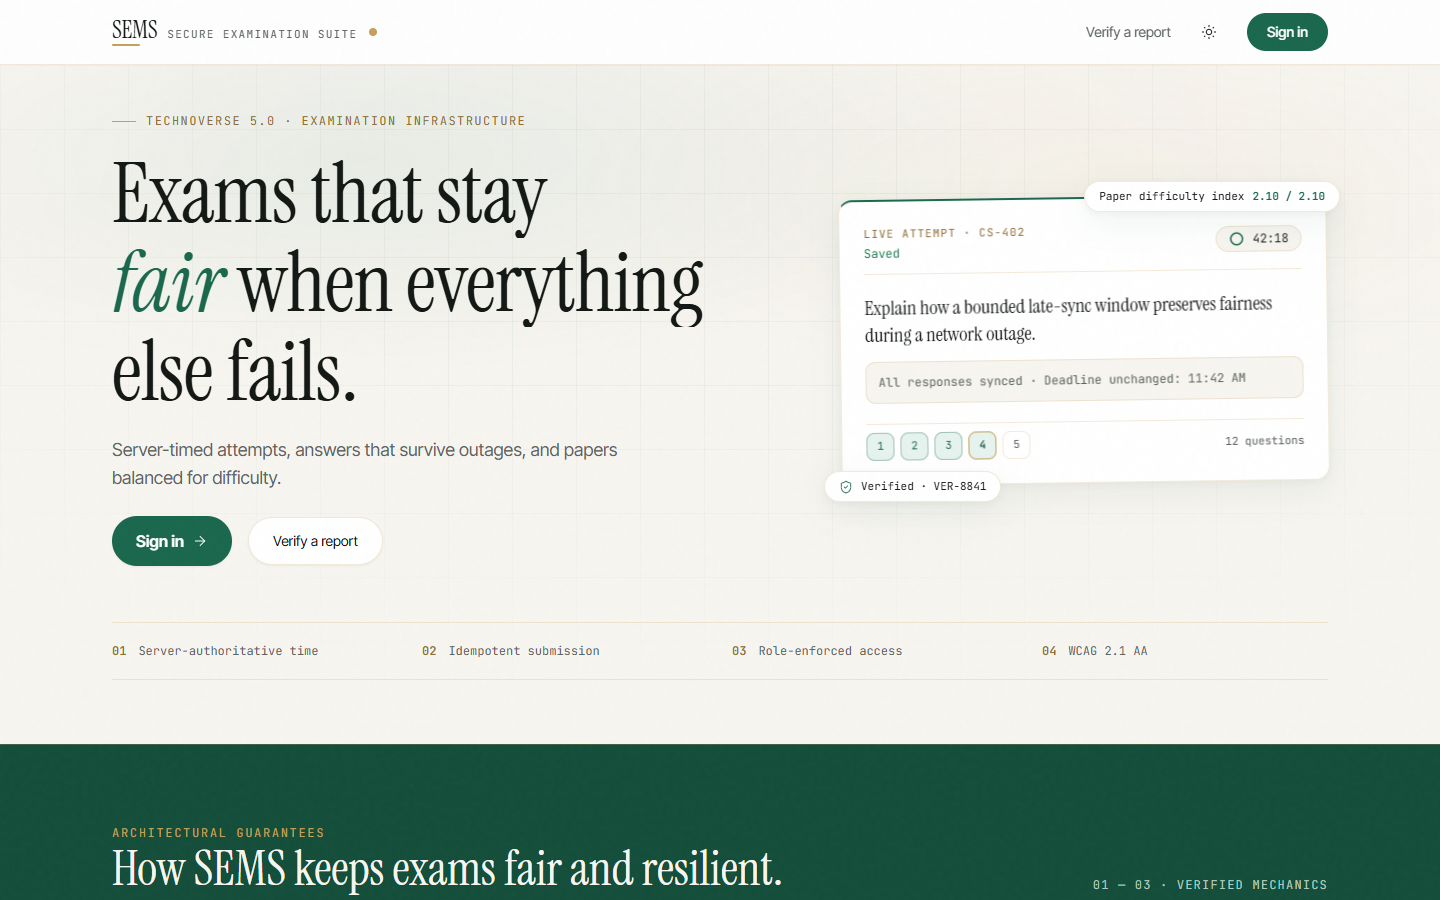
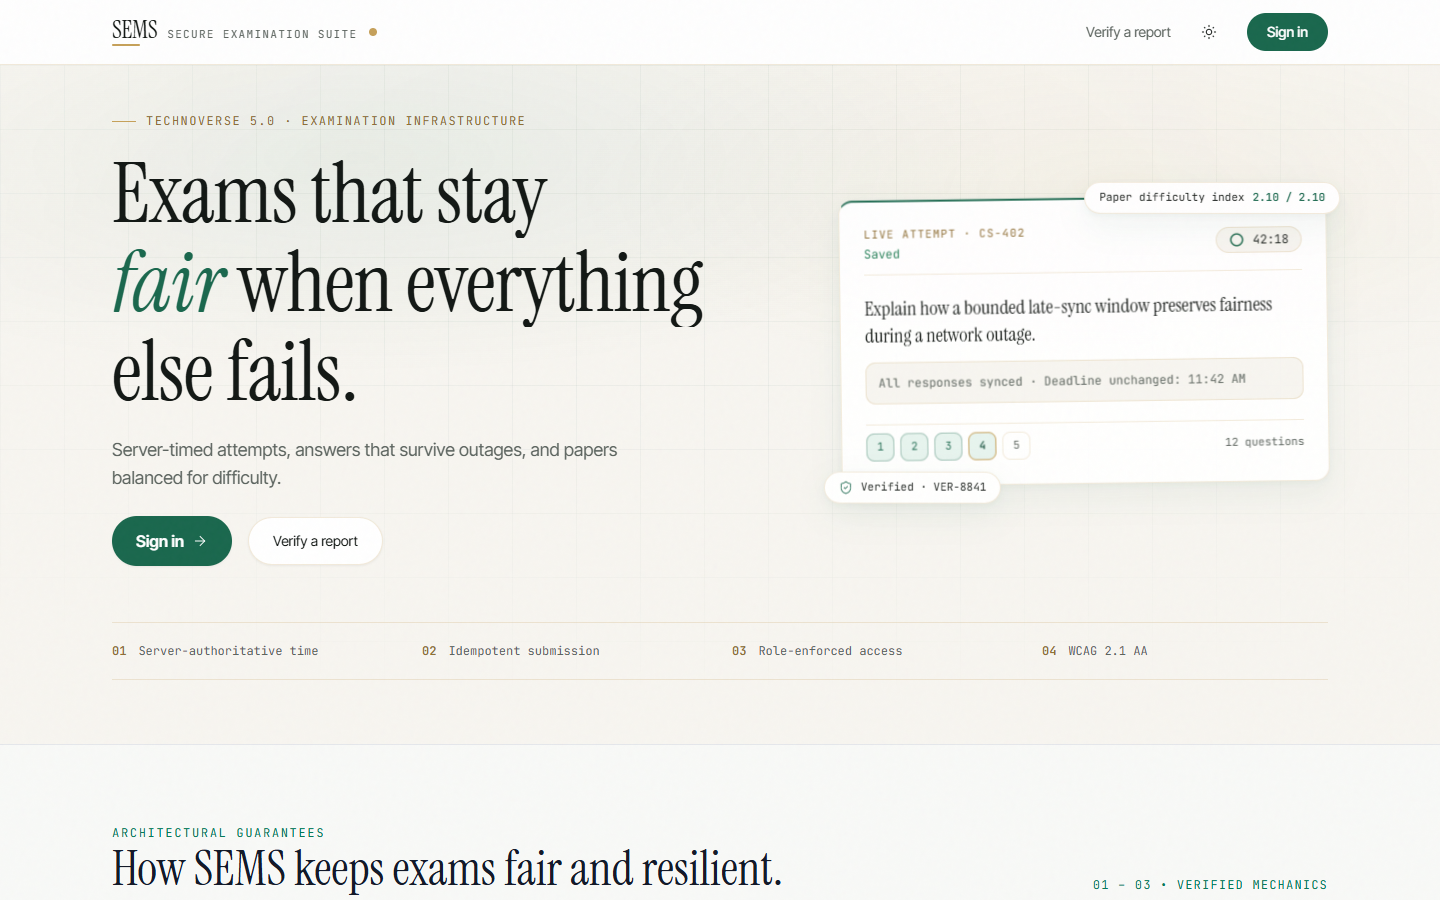
style(frontend): redesign landing feature showcase to crisp off-white architectural light theme

diff --git a/frontend/src/pages/HomePage.jsx b/frontend/src/pages/HomePage.jsx
@@ -338,78 +338,70 @@ export const HomePage = () => {
           </section>
         </section>
 
-        {/* Full-Bleed Heritage Emerald Band: 3-Chapter Feature Showcase */}
+        {/* Architectural Off-White Band: 3-Chapter Feature Showcase */}
         <section
           aria-labelledby="story-heading"
-          className="bg-[#134E3A] text-[#F7F5F0] py-16 sm:py-20 border-y border-[#C5A059]/25"
+          className="bg-[#F8F9F7] text-[#111827] py-16 sm:py-20 border-y border-[#E5E7EB]"
         >
           <div className="max-w-7xl mx-auto px-4 sm:px-6 lg:px-8 space-y-14">
-            <div className="flex flex-col sm:flex-row sm:items-end justify-between gap-4 border-b border-[#F7F5F0]/15 pb-6">
+            <div className="flex flex-col sm:flex-row sm:items-end justify-between gap-4 border-b border-[#E5E7EB] pb-6">
               <div>
-                <p className="font-mono text-xs uppercase tracking-[0.14em] text-[#C5A059]">
+                <p className="font-mono text-xs uppercase tracking-[0.14em] text-[#047857]">
                   Architectural Guarantees
                 </p>
-                <h2 id="story-heading" className="font-serif text-3xl sm:text-5xl text-[#F7F5F0] mt-1">
+                <h2 id="story-heading" className="font-serif text-3xl sm:text-5xl text-[#111827] mt-1">
                   How SEMS keeps exams fair and resilient.
                 </h2>
               </div>
-              <span className="text-xs font-mono text-[#B2C9BF] uppercase tracking-[0.1em]">
-                01 — 03 · Verified Mechanics
+              <span className="text-xs font-mono text-[#047857] uppercase tracking-[0.1em]">
+                01 – 03 • Verified Mechanics
               </span>
             </div>
 
             {/* Chapter 01: Server keeps the clock */}
-            <article className="scroll-chapter grid grid-cols-1 lg:grid-cols-12 gap-8 items-center pb-12 border-b border-[#C5A059]/25">
+            <article className="scroll-chapter grid grid-cols-1 lg:grid-cols-12 gap-8 items-center pb-12 border-b border-[#E5E7EB]">
               <div className="lg:col-span-5 space-y-3">
-                <span className="font-serif text-5xl text-[#C5A059] block">01</span>
-                <h3 className="font-serif text-3xl sm:text-4xl text-[#F7F5F0]">The server keeps the clock.</h3>
-                <p className="text-sm sm:text-base text-[#D7E6DF] max-w-[54ch] leading-relaxed">
+                <span className="font-serif text-5xl text-[#047857] block">01</span>
+                <h3 className="font-serif text-3xl sm:text-4xl text-[#111827]">The server keeps the clock.</h3>
+                <p className="text-sm sm:text-base text-[#4B5563] max-w-[54ch] leading-relaxed">
                   Every countdown is anchored to the server&apos;s UTC deadline via minimum-RTT offset sampling. Changing the local device clock never adds a single second.
                 </p>
               </div>
-              <div
-                className="lg:col-span-7 min-h-[240px] rounded-[16px] p-5 sm:p-6 flex flex-col justify-between gap-5"
-                style={{
-                  backgroundColor: 'rgba(255, 255, 255, 0.08)',
-                  border: '1px solid rgba(197, 160, 89, 0.28)',
-                  backgroundImage: 'radial-gradient(rgba(247, 245, 240, 0.14) 1px, transparent 1px)',
-                  backgroundSize: '18px 18px',
-                }}
-              >
-                <div className="flex items-center justify-between text-[11px] font-mono uppercase tracking-[0.1em] text-[#B2C9BF]">
+              <div className="lg:col-span-7 min-h-[240px] rounded-[16px] bg-white border border-[#E5E7EB] shadow-[0_1px_3px_rgba(17,24,39,0.04),0_10px_28px_rgba(17,24,39,0.04)] p-5 sm:p-6 flex flex-col justify-between gap-5">
+                <div className="flex flex-wrap items-center justify-between gap-2 text-[11px] font-mono uppercase tracking-[0.1em] text-[#4B5563]">
                   <span className="inline-flex items-center gap-1.5">
-                    <Clock className="w-3.5 h-3.5 text-[#C5A059]" /> Clock Authority Comparison
+                    <Clock className="w-3.5 h-3.5 text-[#047857]" /> Clock Authority Comparison
                   </span>
-                  <span className="px-2.5 py-0.5 rounded-full bg-[#19674D] border border-[#C5A059]/40 text-[#F7F5F0]">
-                    RTT Offset: 14ms · Locked
+                  <span className="px-2.5 py-0.5 rounded-full bg-[#ECFDF5] border border-[#A7F3D0] text-[#065F46]">
+                    RTT Offset: 14ms • Locked
                   </span>
                 </div>
 
                 <div className="grid grid-cols-1 sm:grid-cols-2 gap-4">
-                  {/* Dimmed Tampered Device Clock */}
-                  <div className="rounded-[12px] p-4 bg-black/20 border border-white/10 opacity-65">
-                    <div className="text-[11px] font-mono uppercase text-[#B2C9BF] mb-1">Local Device Clock</div>
-                    <div className="font-mono text-xl text-red-300 line-through tabular-nums">12:12:00 (+30m Tampered)</div>
-                    <div className="text-[11px] font-mono text-red-200/80 mt-2">Ignored by submission gate</div>
+                  {/* Neutral Tampered Device Clock */}
+                  <div className="rounded-[12px] p-4 bg-[#F9FAFB] border border-[#E5E7EB]">
+                    <div className="text-[11px] font-mono uppercase text-[#4B5563] mb-1">Local Device Clock</div>
+                    <div className="font-mono text-xl text-[#DC2626] line-through tabular-nums">12:12:00 (+30m Tampered)</div>
+                    <div className="text-[11px] font-mono text-[#6B7280] mt-2">Ignored by submission gate</div>
                   </div>
 
-                  {/* Luminous Authoritative UTC Server Clock */}
-                  <div className="rounded-[12px] p-4 bg-[#0F2E23]/90 border border-[#C5A059]/60 shadow-lg flex items-center justify-between gap-3">
+                  {/* High-Contrast Authoritative UTC Server Clock */}
+                  <div className="rounded-[12px] p-4 bg-[#064E3B] border border-[#064E3B] shadow-sm flex items-center justify-between gap-3">
                     <div>
-                      <div className="inline-flex items-center gap-1 text-[11px] font-mono uppercase text-[#C5A059] mb-1">
+                      <div className="inline-flex items-center gap-1 text-[11px] font-mono uppercase text-[#A7F3D0] mb-1">
                         <Lock className="w-3 h-3" /> Authoritative UTC Server Clock
                       </div>
-                      <div className="font-mono text-2xl text-[#F7F5F0] font-semibold tabular-nums">42:18</div>
-                      <div className="text-[11px] font-mono text-[#B2C9BF] mt-1">Deadline: 11:42:00 UTC</div>
+                      <div className="font-mono text-2xl text-white font-semibold tabular-nums">42:18</div>
+                      <div className="text-[11px] font-mono text-[#D1FAE5] mt-1">Deadline: 11:42:00 UTC</div>
                     </div>
                     <svg width="56" height="56" viewBox="0 0 56 56" aria-hidden="true" className="shrink-0">
-                      <circle cx="28" cy="28" r="22" fill="none" stroke="rgba(247,245,240,0.18)" strokeWidth="4" />
+                      <circle cx="28" cy="28" r="22" fill="none" stroke="rgba(255,255,255,0.18)" strokeWidth="4" />
                       <circle
                         cx="28"
                         cy="28"
                         r="22"
                         fill="none"
-                        stroke="#C5A059"
+                        stroke="#34D399"
                         strokeWidth="4"
                         strokeLinecap="round"
                         strokeDasharray="138.2"
@@ -424,41 +416,33 @@ export const HomePage = () => {
             </article>
 
             {/* Chapter 02: Answers survive outages */}
-            <article className="scroll-chapter grid grid-cols-1 lg:grid-cols-12 gap-8 items-center pb-12 border-b border-[#C5A059]/25">
+            <article className="scroll-chapter grid grid-cols-1 lg:grid-cols-12 gap-8 items-center pb-12 border-b border-[#E5E7EB]">
               <div className="lg:col-span-5 space-y-3">
-                <span className="font-serif text-5xl text-[#C5A059] block">02</span>
-                <h3 className="font-serif text-3xl sm:text-4xl text-[#F7F5F0]">Answers survive outages.</h3>
-                <p className="text-sm sm:text-base text-[#D7E6DF] max-w-[54ch] leading-relaxed">
+                <span className="font-serif text-5xl text-[#047857] block">02</span>
+                <h3 className="font-serif text-3xl sm:text-4xl text-[#111827]">Answers survive outages.</h3>
+                <p className="text-sm sm:text-base text-[#4B5563] max-w-[54ch] leading-relaxed">
                   Responses write to IndexedDB first with monotonic sequence numbers. On reconnect, queued answers flush in order within a bounded late-sync window.
                 </p>
               </div>
-              <div
-                className="lg:col-span-7 min-h-[240px] rounded-[16px] p-5 sm:p-6 flex flex-col justify-between gap-5"
-                style={{
-                  backgroundColor: 'rgba(255, 255, 255, 0.08)',
-                  border: '1px solid rgba(197, 160, 89, 0.28)',
-                  backgroundImage: 'radial-gradient(rgba(247, 245, 240, 0.14) 1px, transparent 1px)',
-                  backgroundSize: '18px 18px',
-                }}
-              >
-                <div className="flex items-center justify-between text-[11px] font-mono uppercase tracking-[0.1em] text-[#B2C9BF]">
+              <div className="lg:col-span-7 min-h-[240px] rounded-[16px] bg-white border border-[#E5E7EB] shadow-[0_1px_3px_rgba(17,24,39,0.04),0_10px_28px_rgba(17,24,39,0.04)] p-5 sm:p-6 flex flex-col justify-between gap-5">
+                <div className="flex flex-wrap items-center justify-between gap-2 text-[11px] font-mono uppercase tracking-[0.1em] text-[#4B5563]">
                   <span className="inline-flex items-center gap-1.5">
-                    <Database className="w-3.5 h-3.5 text-[#C5A059]" /> Offline-First Sync Pipeline
+                    <Database className="w-3.5 h-3.5 text-[#047857]" /> Offline-First Sync Pipeline
                   </span>
-                  <span className="px-2.5 py-0.5 rounded-full bg-white/10 border border-white/15 text-[#F7F5F0]">
-                    Monotonic Seq · Idempotent
+                  <span className="px-2.5 py-0.5 rounded-full bg-[#ECFDF5] border border-[#A7F3D0] text-[#065F46]">
+                    Monotonic Seq • Idempotent
                   </span>
                 </div>
 
                 <div className="grid grid-cols-1 sm:grid-cols-3 gap-3 items-center">
                   {/* Step 1: IndexedDB Local Vault */}
-                  <div className="rounded-[12px] p-3.5 bg-[#0F2E23]/85 border border-white/15 space-y-2">
-                    <div className="text-[11px] font-mono uppercase text-[#C5A059]">IndexedDB Local Vault</div>
+                  <div className="rounded-[12px] p-3.5 bg-[#F9FAFB] border border-[#E5E7EB] space-y-2">
+                    <div className="text-[11px] font-mono uppercase text-[#4B5563]">IndexedDB Local Vault</div>
                     <div className="flex flex-wrap gap-1.5">
                       {['Q3 · #14', 'Q4 · #15', 'Q5 · #16'].map((chip) => (
                         <span
                           key={chip}
-                          className="px-2 py-1 rounded-md bg-white/10 border border-[#C5A059]/35 font-mono text-[11px] text-[#F7F5F0]"
+                          className="px-2 py-1 rounded-md bg-white border border-[#E5E7EB] font-mono text-[11px] text-[#111827]"
                         >
                           {chip}
                         </span>
@@ -466,27 +450,27 @@ export const HomePage = () => {
                     </div>
                   </div>
 
-                  {/* Step 2: Animated dashed brass sync connector */}
+                  {/* Step 2: Dashed emerald sync connector */}
                   <div className="flex flex-col items-center justify-center py-2">
                     <div className="w-full flex items-center gap-2">
-                      <span className="h-[2px] flex-1 border-t-2 border-dashed border-[#C5A059]" />
-                      <span className="px-2.5 py-1 rounded-full bg-[#C5A059] text-[#134E3A] font-mono text-[10px] font-semibold uppercase">
+                      <span className="h-[2px] flex-1 border-t-2 border-dashed border-[#059669]/50" />
+                      <span className="px-2.5 py-1 rounded-full bg-[#ECFDF5] border border-[#A7F3D0] text-[#065F46] font-mono text-[10px] font-semibold uppercase">
                         Flush
                       </span>
-                      <span className="h-[2px] flex-1 border-t-2 border-dashed border-[#C5A059]" />
+                      <span className="h-[2px] flex-1 border-t-2 border-dashed border-[#059669]/50" />
                     </div>
-                    <span className="text-[10px] font-mono text-[#B2C9BF] mt-1.5">Bounded late-sync</span>
+                    <span className="text-[10px] font-mono text-[#6B7280] mt-1.5">Bounded late-sync</span>
                   </div>
 
                   {/* Step 3: Server Ledger */}
-                  <div className="rounded-[12px] p-3.5 bg-[#0F2E23]/95 border border-[#C5A059]/60 space-y-1.5">
-                    <div className="inline-flex items-center gap-1.5 text-[11px] font-mono uppercase text-[#C5A059]">
-                      <CheckCircle2 className="w-3.5 h-3.5 text-[#C5A059]" /> Server Ledger
+                  <div className="rounded-[12px] p-3.5 bg-[#064E3B] border border-[#064E3B] space-y-1.5">
+                    <div className="inline-flex items-center gap-1.5 text-[11px] font-mono uppercase text-[#A7F3D0]">
+                      <CheckCircle2 className="w-3.5 h-3.5 text-[#34D399]" /> Server Ledger
                     </div>
-                    <div className="text-xs font-mono text-[#F7F5F0] font-medium">
+                    <div className="text-xs font-mono text-white font-medium">
                       Accepted · Deadline Unchanged
                     </div>
-                    <div className="text-[11px] font-mono text-[#B2C9BF]">3/3 responses committed</div>
+                    <div className="text-[11px] font-mono text-[#D1FAE5]">3/3 responses committed</div>
                   </div>
                 </div>
               </div>
@@ -495,25 +479,17 @@ export const HomePage = () => {
             {/* Chapter 03: Every paper is fair */}
             <article className="scroll-chapter grid grid-cols-1 lg:grid-cols-12 gap-8 items-center">
               <div className="lg:col-span-5 space-y-3">
-                <span className="font-serif text-5xl text-[#C5A059] block">03</span>
-                <h3 className="font-serif text-3xl sm:text-4xl text-[#F7F5F0]">Every paper is fair.</h3>
-                <p className="text-sm sm:text-base text-[#D7E6DF] max-w-[54ch] leading-relaxed">
+                <span className="font-serif text-5xl text-[#047857] block">03</span>
+                <h3 className="font-serif text-3xl sm:text-4xl text-[#111827]">Every paper is fair.</h3>
+                <p className="text-sm sm:text-base text-[#4B5563] max-w-[54ch] leading-relaxed">
                   Blueprint randomization draws distinct questions per candidate while locking topic and difficulty distribution across every generated paper.
                 </p>
               </div>
-              <div
-                className="lg:col-span-7 min-h-[240px] rounded-[16px] p-5 sm:p-6 flex flex-col justify-between gap-5"
-                style={{
-                  backgroundColor: 'rgba(255, 255, 255, 0.08)',
-                  border: '1px solid rgba(197, 160, 89, 0.28)',
-                  backgroundImage: 'radial-gradient(rgba(247, 245, 240, 0.14) 1px, transparent 1px)',
-                  backgroundSize: '18px 18px',
-                }}
-              >
-                <div className="flex items-center justify-between text-[11px] font-mono uppercase tracking-[0.1em] text-[#B2C9BF]">
+              <div className="lg:col-span-7 min-h-[240px] rounded-[16px] bg-white border border-[#E5E7EB] shadow-[0_1px_3px_rgba(17,24,39,0.04),0_10px_28px_rgba(17,24,39,0.04)] p-5 sm:p-6 flex flex-col justify-between gap-5">
+                <div className="flex flex-wrap items-center justify-between gap-2 text-[11px] font-mono uppercase tracking-[0.1em] text-[#4B5563]">
                   <span>Blueprint Parity Matrix</span>
-                  <span className="px-2.5 py-0.5 rounded-full bg-[#19674D] border border-[#C5A059]/40 text-[#F7F5F0]">
-                    Variance: 0.00 · Balanced
+                  <span className="px-2.5 py-0.5 rounded-full bg-[#ECFDF5] border border-[#A7F3D0] text-[#065F46]">
+                    Variance: 0.00 • Balanced
                   </span>
                 </div>
 
@@ -521,27 +497,27 @@ export const HomePage = () => {
                   {PAPER_CARDS.map((paper) => (
                     <div
                       key={paper.name}
-                      className="rounded-[12px] p-3.5 bg-[#0F2E23]/90 border border-white/15 space-y-3"
+                      className="rounded-[12px] p-3.5 bg-[#F9FAFB] border border-[#E5E7EB] space-y-3"
                     >
                       <div className="flex items-center justify-between">
-                        <span className="font-serif text-lg text-[#F7F5F0]">{paper.name}</span>
-                        <span className="font-mono text-xs text-[#C5A059] font-semibold tabular-nums">2.10</span>
+                        <span className="font-serif text-lg text-[#111827]">{paper.name}</span>
+                        <span className="font-mono text-xs text-[#047857] font-semibold tabular-nums">2.10</span>
                       </div>
                       <div className="flex flex-wrap gap-1">
                         {paper.topics.map((t) => (
                           <span
                             key={t}
-                            className="px-1.5 py-0.5 rounded bg-white/10 font-mono text-[10px] text-[#D7E6DF]"
+                            className="px-1.5 py-0.5 rounded bg-white border border-[#E5E7EB] font-mono text-[10px] text-[#4B5563]"
                           >
                             {t}
                           </span>
                         ))}
                       </div>
                       <div className="space-y-1">
-                        <div className="h-2 rounded-full bg-white/10 overflow-hidden">
-                          <div className="h-full bg-[#C5A059] rounded-full" style={{ width: paper.pct }} />
+                        <div className="h-2 rounded-full bg-[#E5E7EB] overflow-hidden">
+                          <div className="h-full bg-[#059669] rounded-full" style={{ width: paper.pct }} />
                         </div>
-                        <div className="text-[10px] font-mono text-[#B2C9BF]">Difficulty Index</div>
+                        <div className="text-[10px] font-mono text-[#6B7280]">Difficulty Index</div>
                       </div>
                     </div>
                   ))}
